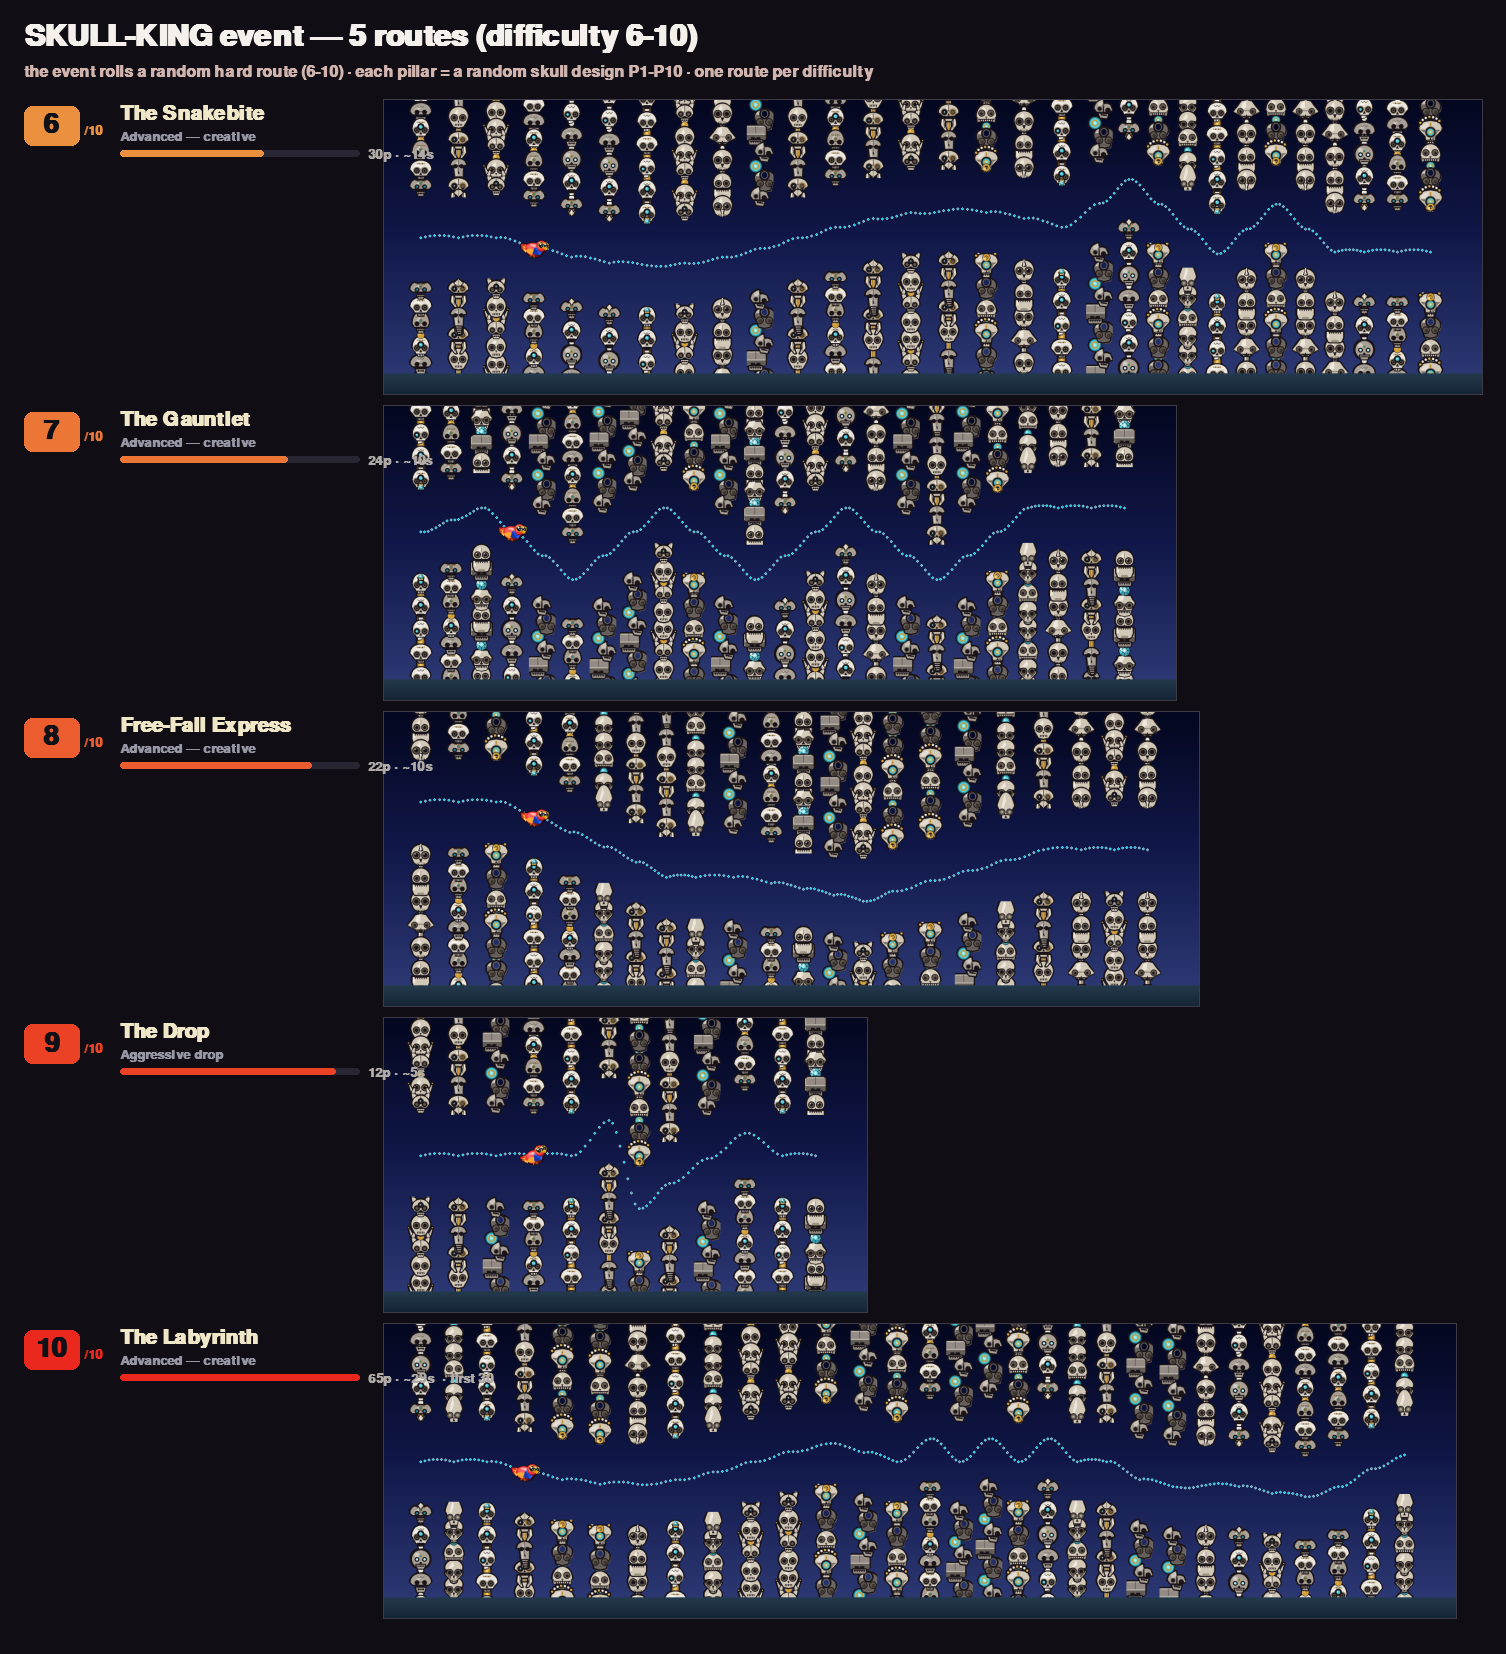
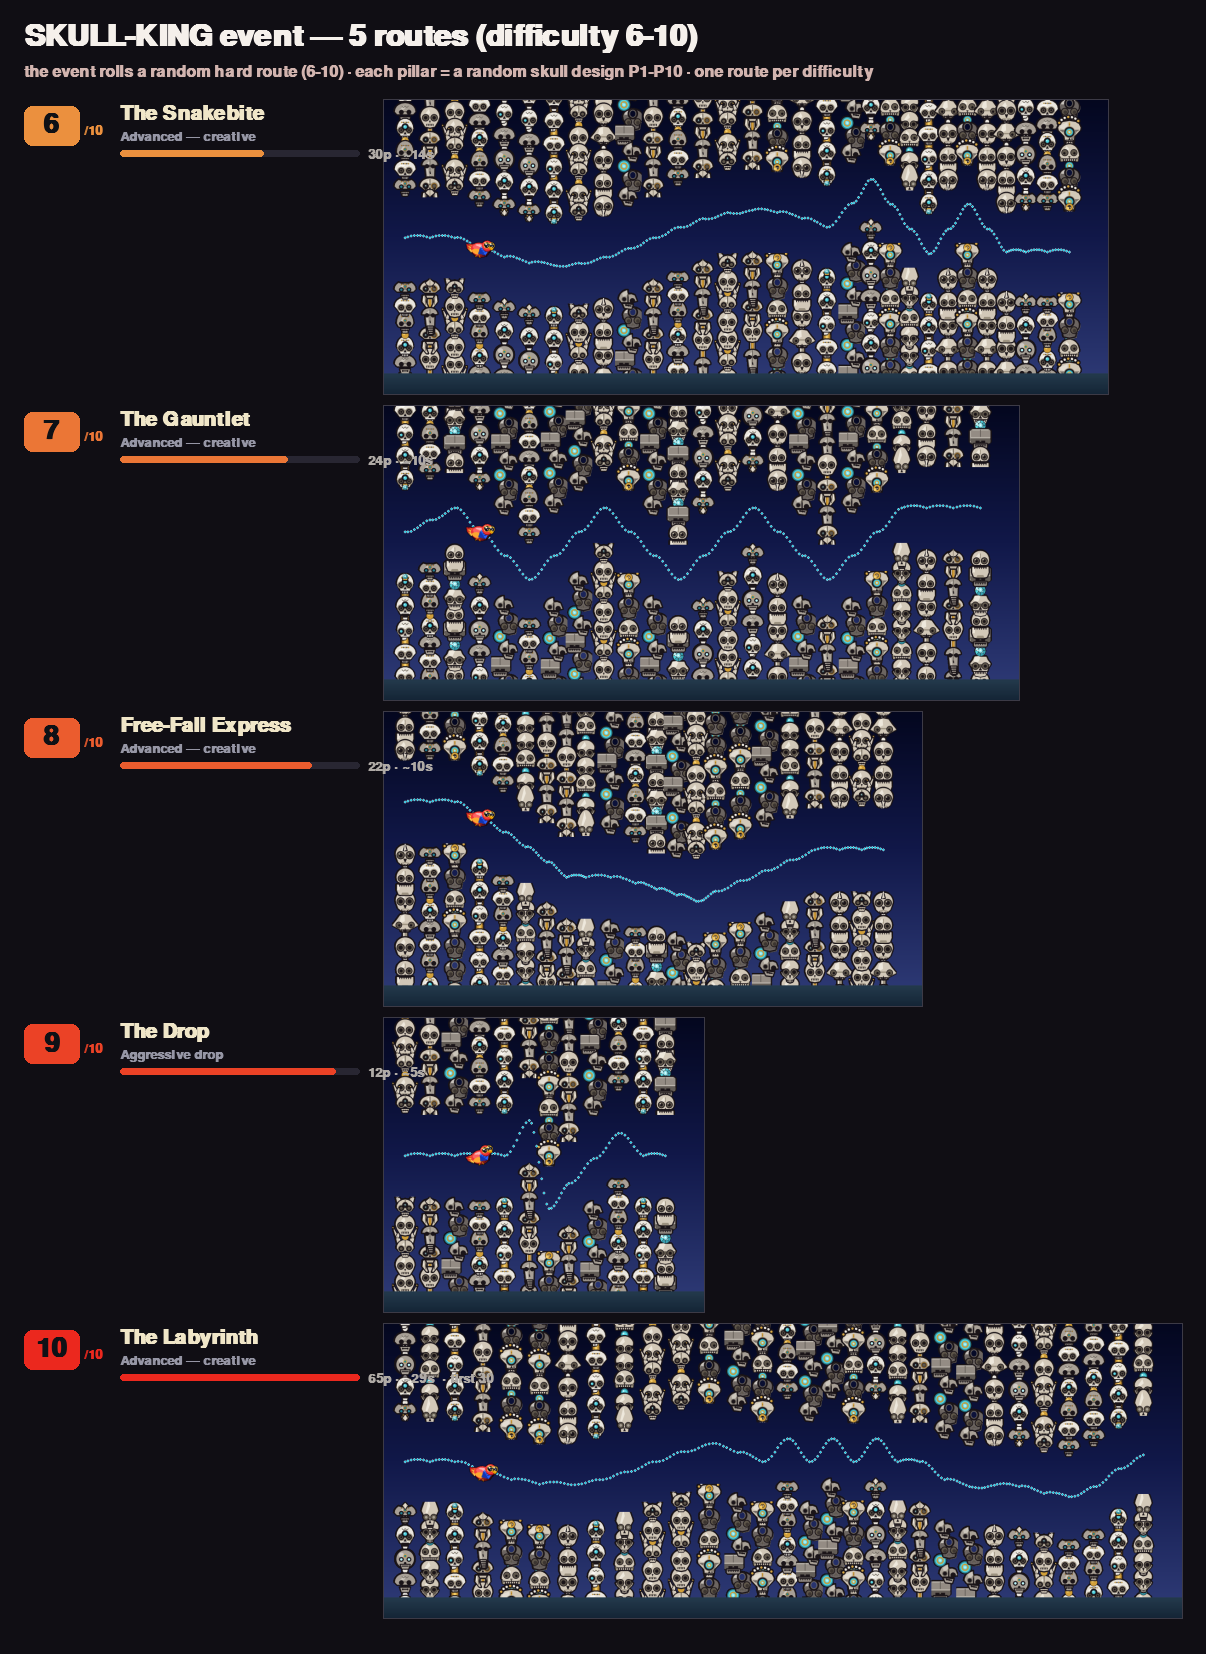
skull routes: tighten column spacing so skull totems sit close
Skull columns fill only ~46px of the 58px slot (vs pagodas + eaves), so
the routes' native 72px pitch left big horizontal gaps. Re-space each
route's columns to a tighter 54px pitch (vertical gap path untouched) so
the skull totems sit shoulder-to-shoulder — denser, reads much better.

Claude-Session: https://claude.ai/code/session_01JdHJ2TbdY51oSPSCYSsaHZ

diff --git a/tools/render_skull_routes.py b/tools/render_skull_routes.py
@@ -31,9 +31,25 @@ sys.path.insert(0, PILLARS_DIR)
 import pillar_engine as PE
 
 PHASE = 0.62          # dusk/night-leaning sky for the skull-king mood (bone reads on it)
-SP_PAD = 72
 ROUTE_MARGIN_R = 1.05  # seat the focal skull at the gap edge so pillars frame the channel
 MAX_PILLARS = 30       # cap very long routes (legibility + render time)
+# skull columns only fill ~46px of the 58px slot (vs pagodas, which fill it + eaves),
+# so the routes' native 72px pitch leaves a big gap. Re-space the columns tighter so
+# the skull totems sit shoulder-to-shoulder — vertical gap path is untouched.
+SP_SKULL = 54
+START_X_SKULL = 46
+
+
+def _compress(pagodas):
+    """Re-space a route's pillars to a tighter horizontal pitch (SP_SKULL) so the
+    narrow skull columns sit close together. Only x changes; gap centre/height stay."""
+    if not pagodas:
+        return pagodas
+    base = pagodas[0][0]
+    orig_pitch = (pagodas[1][0] - pagodas[0][0]) if len(pagodas) >= 2 else 72.0
+    f = SP_SKULL / orig_pitch
+    return [(START_X_SKULL + (x - base) * f, cy, gap_h, seed)
+            for (x, cy, gap_h, seed) in pagodas]
 
 # the ten skull pillar designs in P1..P10 order
 DESIGN_FILES = [
@@ -80,7 +96,8 @@ def _skull_half(hpx, cap, design):
 def render_skull_strip(pagodas, rng):
     """Mirror render_warren_all.render_strip but paint each gap slot with a random
     skull pillar (top + bottom halves) instead of a pagoda pair."""
-    native_w = pagodas[-1][0] + SP_PAD + 40
+    pagodas = _compress(pagodas)                     # tighten the column spacing
+    native_w = int(pagodas[-1][0] + SP_SKULL + 30)
     palette = shaped_palette(PHASE, dense=False)
     surf = pygame.Surface((native_w, H))
     draw_sky_ground(surf, native_w, H, palette)
